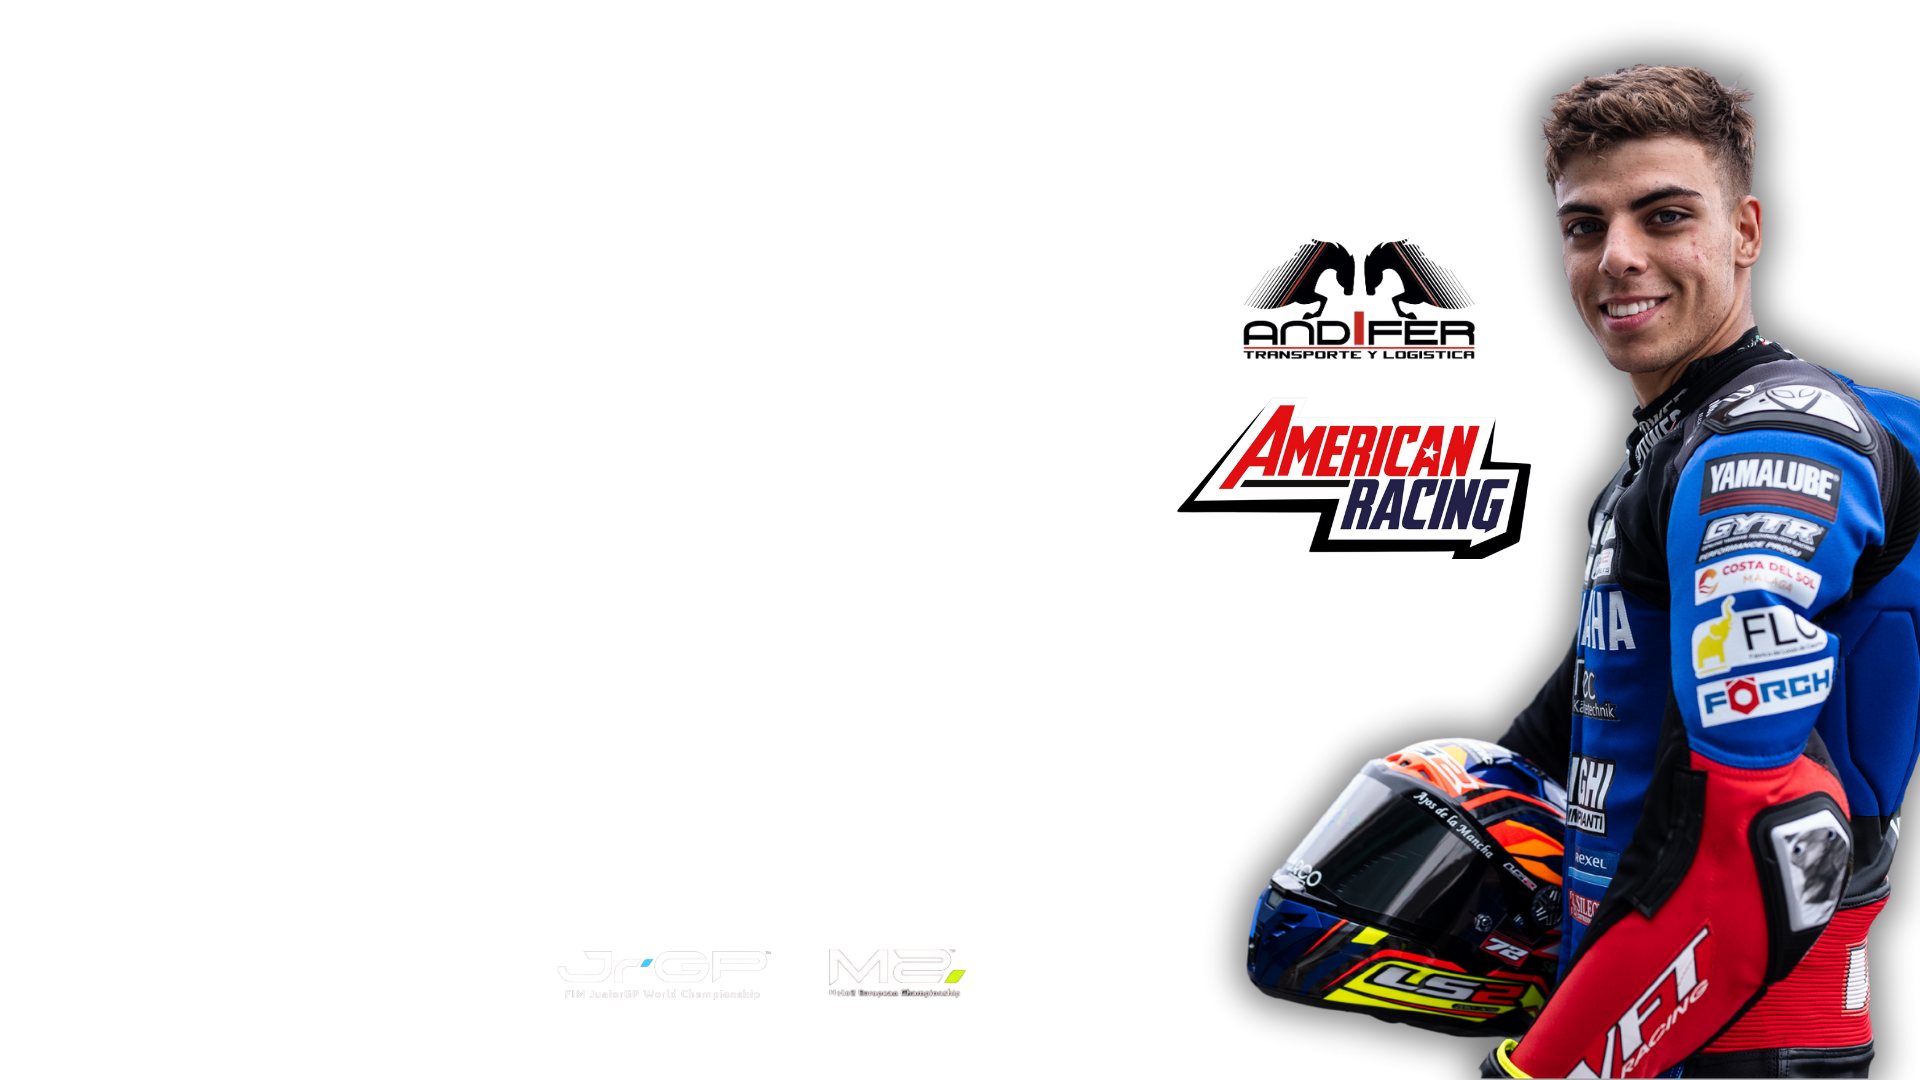
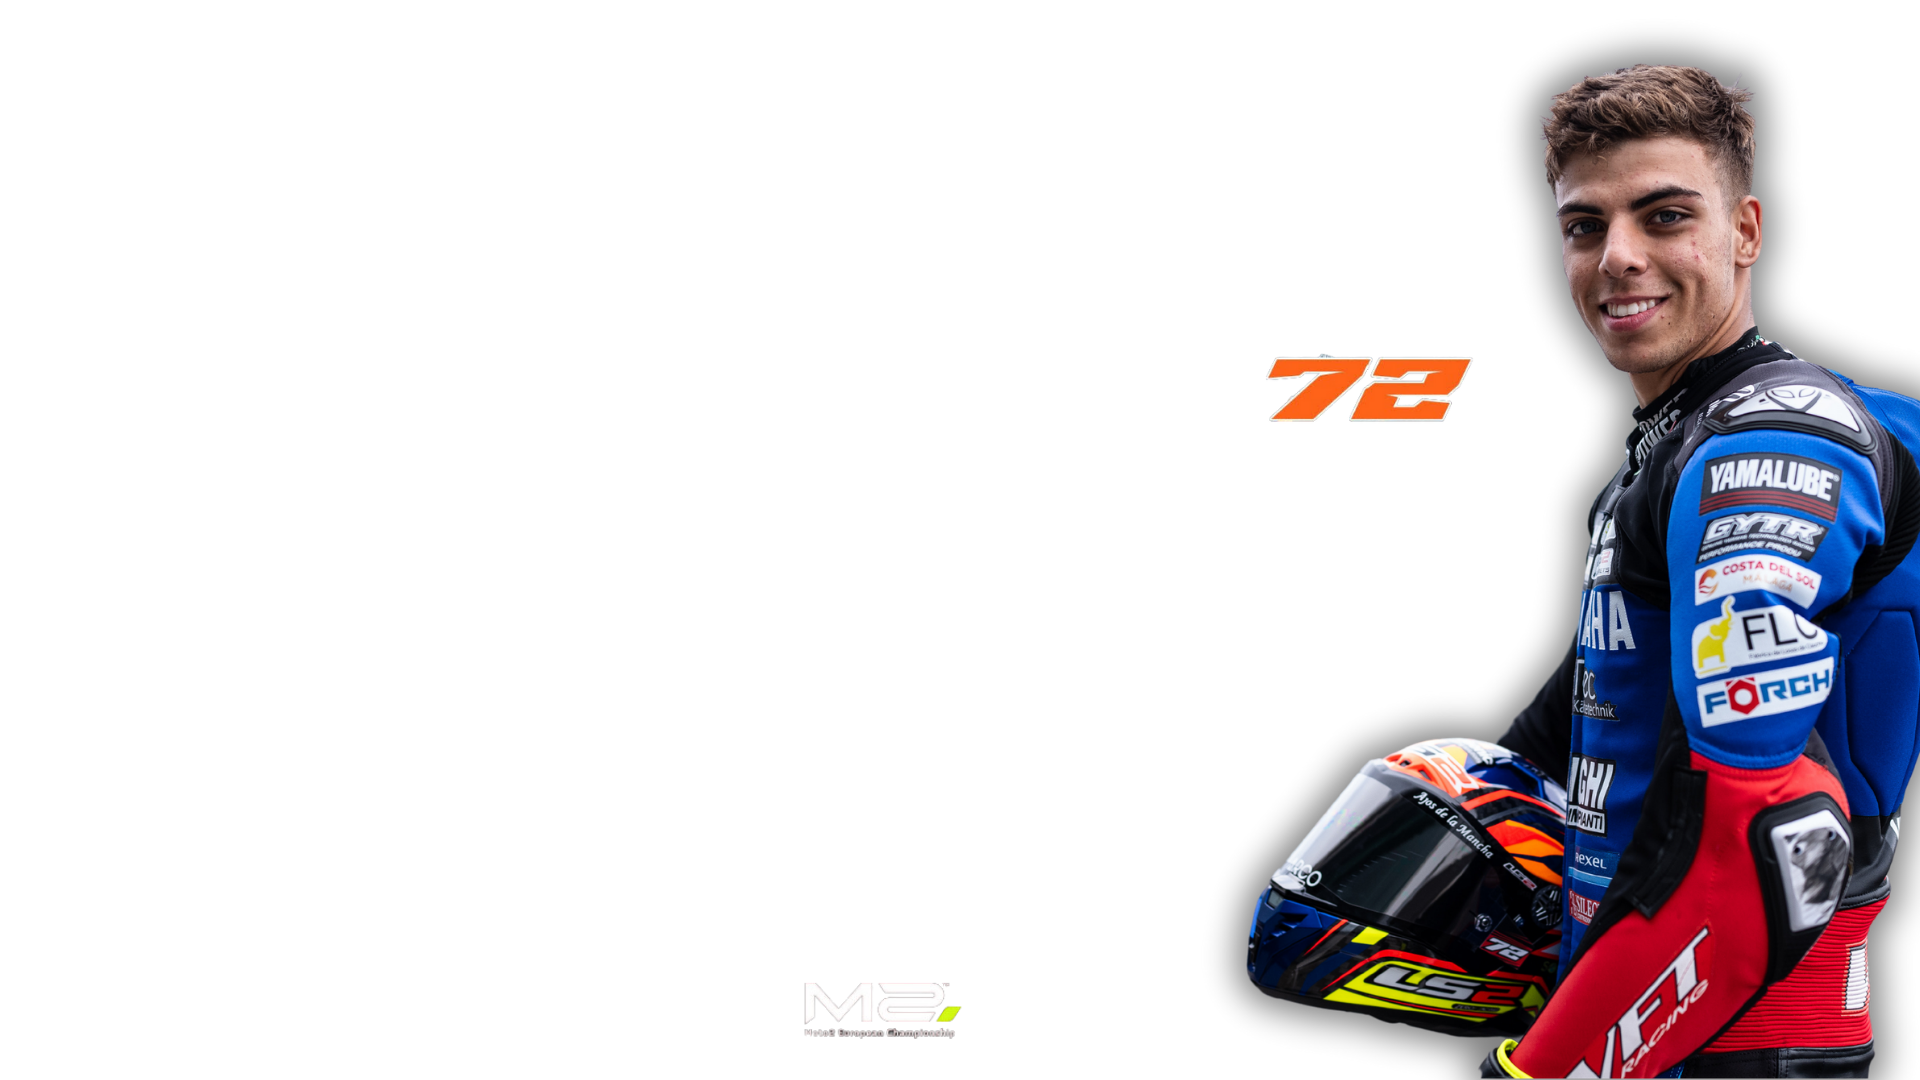
commit 1

Changed region(s): [[0.5938, 0.2139, 0.8125, 0.5194], [0.4062, 0.8861, 0.5, 0.9778]]

diff --git a/proyecto.html b/proyecto.html
@@ -1,0 +1,109 @@
+<!DOCTYPE html>
+<html lang="es">
+<head>
+    <meta charset="UTF-8">
+    <meta name="viewport" content="width=device-width, initial-scale=1.0">
+    <link rel="stylesheet" href="styles.css">
+    <style>
+        @font-face {
+            font-family: 'FS Joy';
+            src: url('FSJoy-Regular.woff2') format('woff2'), url('FSJoy-Regular.woff') format('woff');
+        }
+
+        body {
+            margin: 0;
+            padding: 0;
+            font-family: 'FS Joy', sans-serif;
+            background-image: url('MULTIMEDIA.jpg');
+            background-size: cover;
+            background-position: center;
+            background-attachment: fixed;
+            display: flex;
+            justify-content: center;
+            align-items: center;
+            height: 100vh;
+            overflow: hidden;
+        }
+
+        h1 {
+            font-size: 3rem;
+            color: white;
+            text-shadow: 2px 2px 4px rgba(0, 0, 0, 0.7);
+            margin-bottom: 20px;
+            animation: fadeInDown 1s ease-out;
+        }
+
+        .proyecto-container {
+            display: flex;
+            flex-direction: column;
+            align-items: center;
+            animation: zoomIn 1.5s ease-out;
+        }
+
+        .proyecto-image {
+            width: 80%;
+            max-width: 2000px;
+            border: 0px solid white;
+            border-radius: 0px;
+            box-shadow: 0 0 15px rgba(0, 0, 0, 0.5);
+            transition: transform 0.3s ease;
+        }
+
+        .proyecto-image:hover {
+            transform: scale(1.05);
+        }
+
+        @keyframes fadeInDown {
+            0% {
+                opacity: 0;
+                transform: translateY(-50px);
+            }
+            100% {
+                opacity: 1;
+                transform: translateY(0);
+            }
+        }
+
+        @keyframes zoomIn {
+            0% {
+                opacity: 0;
+                transform: scale(0.8);
+            }
+            100% {
+                opacity: 1;
+                transform: scale(1);
+            }
+        }
+
+ .back-button {
+            position: fixed;
+            top: 20px;
+            left: 20px;
+            padding: 10px;
+            font-size: 1.2rem;
+            background-color: orange;
+            color: white;
+            border: none;
+            border-radius: 30px;
+            cursor: pointer;
+            text-transform: uppercase;
+            box-shadow: 0 0 10px rgba(255, 140, 0, 0.8);
+        }
+
+        .back-button:hover {
+            background-color: darkorange;
+        }
+
+        .back-button::before {
+            content: '← ';
+        }
+    </style>
+</head>
+<body>
+    <button class="back-button" onclick="window.location.href='indice.html';">Volver</button>
+    <div class="proyecto-container">
+        <img src="proyecto.png" alt="proyecto" class="proyecto-image">
+    </div>
+</body>
+</html>
+        

diff --git a/indice.html b/indice.html
@@ -38,7 +38,7 @@
         .grid {
             display: grid;
             grid-template-columns: repeat(4, 1fr); /* Cuatro columnas */
-            gap: 0px; /* Separación entre las imágenes */
+            gap: 20px; /* Separación entre las imágenes */
             text-align: center;
             margin-bottom: 35px;         
         }
@@ -49,7 +49,7 @@
         }
 
         .item img {
-            max-width: 170px; /* Tamaño máximo de las imágenes */
+            max-width: 200px; /* Tamaño máximo de las imágenes */
             transition: transform 0.3s ease; /* Animación al pasar el cursor */
         }
 
@@ -65,7 +65,7 @@
         .item span {
             display: block;
             margin-top: 20px;
-            font-size: 2rem; /* Tamaño de las letras */
+            font-size: 1.4rem; /* Tamaño de las letras */
             font-weight: bold; /* Letras en negrita */
             color: white; /* Color del texto */
             text-shadow: 2px 2px 4px rgba(0, 0, 0, 0.7); /* Sombra para mayor legibilidad */
@@ -74,44 +74,14 @@
         .item.inactive span {
             color: rgba(255, 255, 255, 0.5); /* Texto gris para inactivos */
         }
-
-        /* Ventanas emergentes */
-        .popup {
-            display: none;
-            position: fixed;
-            top: 50%;
-            left: 50%;
-            transform: translate(-50%, -50%);
-            background-color: rgba(0, 0, 0, 0.8);
-            color: white;
-            padding: 20px;
-            border-radius: 10px;
-            text-align: center;
-            box-shadow: 0 0 10px rgba(255, 140, 0, 0.8);
-            z-index: 10;
-        }
-
-        .popup.active {
-            display: block;
-        }
-
-        .popup-close {
-            margin-top: 10px;
-            padding: 10px 10px;
-            border: none;
-            background-color: orange;
-            color: white;
-            border-radius: 10px;
-            cursor: pointer;
-        }
-
-        .popup-close:hover {
-            background-color: darkorange;
-        }
     </style>
 </head>
 <body>
     <div class="grid">
+        <div class="item">
+            <a href="proyecto.html"><img src="1.png" alt="Proyecto 2025"></a>
+            <span>Proyecto 2025</span>
+        </div>
         <div class="item">
             <a href="palmares.html"><img src="2.png" alt="Palmarés"></a>
             <span>Palmarés</span>
@@ -123,7 +93,7 @@ alt="Calendario 2025"></a>
         </div>
          <div class="item">
              <a href="retransmision.html"><img src="5.png" alt="Retransmisión"></a>
-            <span>Retransmisión en Directo</span>
+            <span>Donde ver en Directo</span>
         </div>
         <div class="item">
             <a href="patrocinadores.html"><img src="6.png" alt="Patrocinadores"></a>
